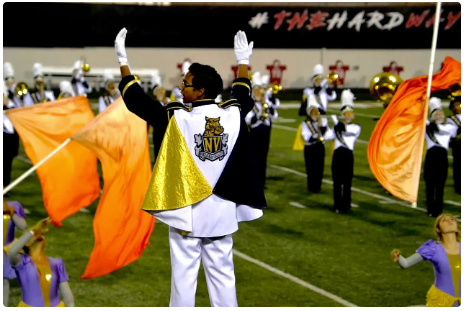
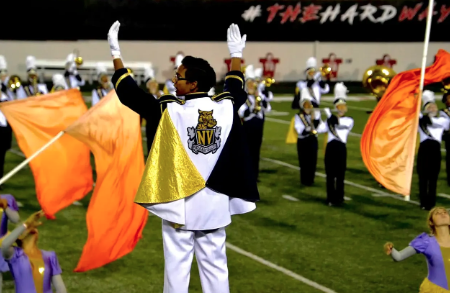
Substack card: add header, upsize cover, re-crop from full-res
- Restore h3 with the substack tagline "Answering my own questions"
- Bump cover from w-40/48 → w-56/72 so it anchors the layout instead
  of floating in dead space
- Re-crop the "On feeling alive" hero photo from a higher-res source

diff --git a/components/sections/Writing.tsx b/components/sections/Writing.tsx
@@ -4,6 +4,7 @@ import substackCover from "@/assets/on-feeling-alive.png";
 
 const SUBSTACK_URL =
   "https://namishkaistha.substack.com/?utm_campaign=profile_chips";
+const ESSAY_TITLE = "Answering my own questions";
 const ESSAY_EXCERPT =
   "My musings on tech that's interesting to me, and insights on being early 20s.";
 
@@ -14,16 +15,19 @@ export function Writing() {
         substack.
       </h2>
       <div className="flex flex-1 flex-col items-center justify-center gap-5 sm:gap-6">
-        <div className="w-40 overflow-hidden rounded-xl ring-1 ring-rail sm:w-48">
+        <div className="w-56 overflow-hidden rounded-xl ring-1 ring-rail sm:w-72">
           <Image
             src={substackCover}
             alt="Substack cover"
             placeholder="blur"
             className="h-auto w-full"
-            sizes="(min-width: 640px) 192px, 160px"
+            sizes="(min-width: 640px) 288px, 224px"
           />
         </div>
         <div className="flex max-w-lg flex-col items-center gap-3 text-center">
+          <h3 className="font-display text-2xl leading-[1.15] font-bold tracking-tight text-ink sm:text-3xl">
+            {ESSAY_TITLE}
+          </h3>
           <p className="text-[14px] leading-relaxed text-ink-dim">
             {ESSAY_EXCERPT}
           </p>
